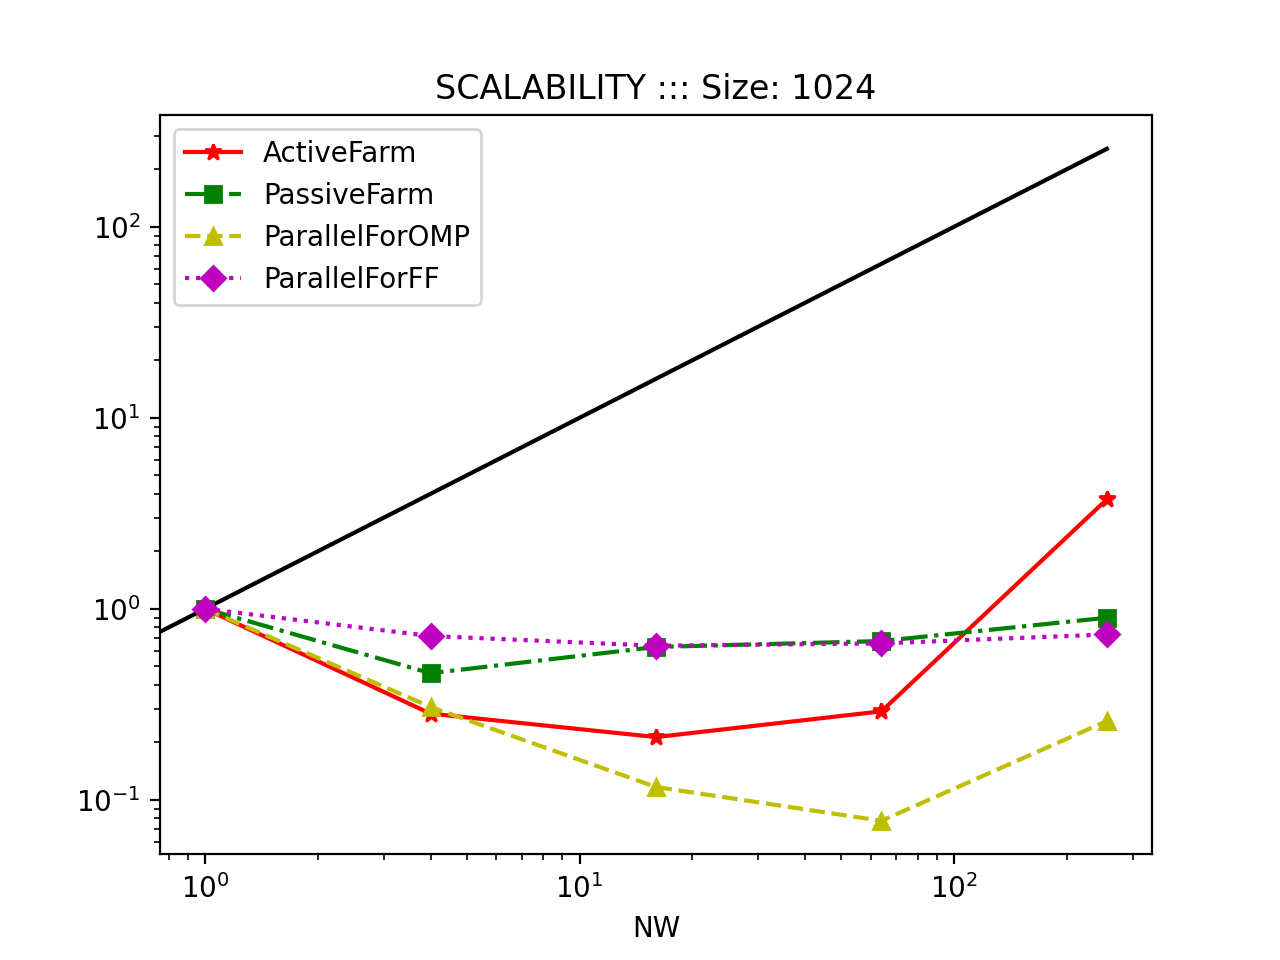
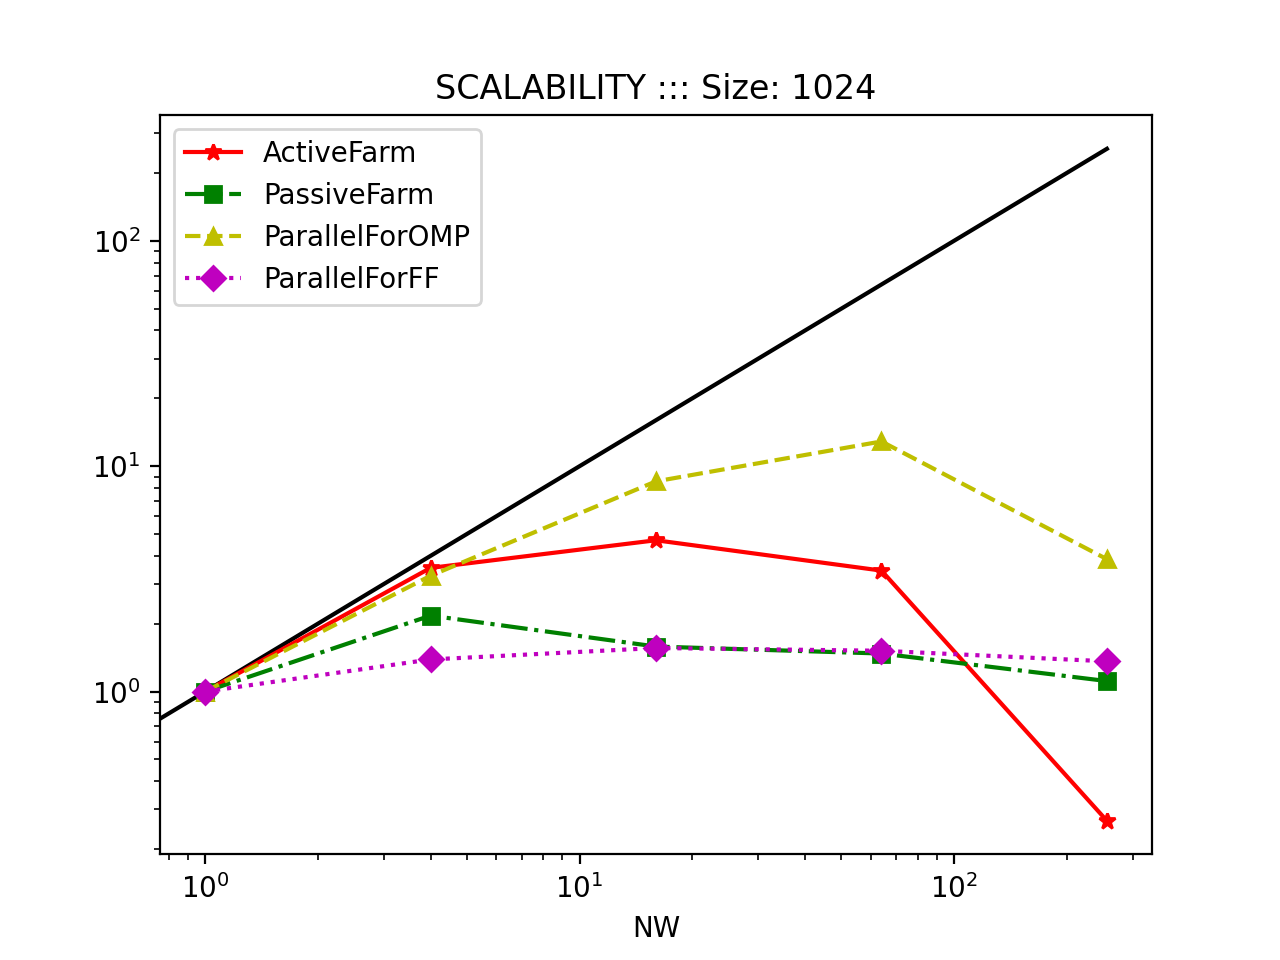
Bugfix data analysis

diff --git a/Assignment/FFPrimes/results/data.py b/Assignment/FFPrimes/results/data.py
@@ -2,6 +2,7 @@ import pandas as pd
 import matplotlib.pyplot as plt
 
 df_seq = pd.read_csv("seq.csv")
+tseq = df_seq.groupby(['nw']).mean().reset_index()['time'].iloc[0]
 
 df_ofarm = pd.read_csv("ofarm.csv")
 df_ofarm = df_ofarm.groupby(['nw']).mean().reset_index()
@@ -10,13 +11,41 @@ df_set = pd.read_csv("set.csv")
 df_set = df_set.groupby(['nw']).mean().reset_index()
 
 df_pfor = pd.read_csv("pfor.csv")
-df_pfor = df_pfor.groupby(['nw','chunk']).mean().reset_index()
+
+
+df_pfor = df_pfor.groupby(['nw', 'chunk']).mean().reset_index()
+df_pfor1 = df_pfor[(df_pfor.chunk == -10)]
+df_pfor2 = df_pfor[(df_pfor.chunk == 0)]
+df_pfor3 = df_pfor[(df_pfor.chunk == 10)]
+
+fig = plt.figure()
+# a, = plt.plot(df_seq['time'], [1,1,1,1,1], 'o-k', label='Seq')
+b, = plt.plot(df_ofarm['nw'], df_ofarm['time'], '-*r', label='OFarm')
+c, = plt.plot(df_set['nw'], df_set['time'], 's-.g', label='Farm+Set')
+d, = plt.plot(df_pfor1['nw'], df_pfor1['time'],'D:c',label='ParallelFor(-10)')
+e, = plt.plot(df_pfor2['nw'], df_pfor2['time'],'^:m',label='ParallelFor(0)')
+f, = plt.plot(df_pfor3['nw'], df_pfor3['time'],'o:b',label='ParallelFor(10)')
+plt.legend(handles=[b, c, d, e, f])
+plt.yscale('log')
+plt.xscale('log')
+plt.ylabel('Time')
+plt.xlabel('NW')
+plt.title("Time")
+plt.show()
 
 
 fig = plt.figure()
-a, = plt.plot(df_seq['time'], 1, 'o-k', label='Seq')
-b, = plt.plot(df_ofarm['time'], df_ofarm['nw'], '-*r', label='OFarm')
-c, = plt.plot(df_set['time'], df_set['nw'], 's-.g', label='Farm+Set')
-d, = plt.plot(df_pfor['time'], df_pfor['nw'], '^--y', label='ParallelFor')
-plt.legend(handles=[a,b,c,d,e])
+a, = plt.plot([0, 256], [0, 256], 'o-k', label='Seq')
+b, = plt.plot(df_ofarm['nw'], df_ofarm['time'].div(tseq), '-*r', label='OFarm')
+c, = plt.plot(df_set['nw'], df_set['time'].div(tseq), 's-.g', label='Farm+Set')
+d, = plt.plot(df_pfor1['nw'], df_pfor1['time'].div(tseq),'D:c',label='ParallelFor(-10)')
+e, = plt.plot(df_pfor2['nw'], df_pfor2['time'].div(tseq),'^:m',label='ParallelFor(0)')
+f, = plt.plot(df_pfor3['nw'], df_pfor3['time'].div(tseq),'o:b',label='ParallelFor(10)')
+plt.legend(handles=[b, c, d, e, f])
+plt.yscale('log')
+plt.xscale('log')
+plt.ylabel('SpeedUp')
+plt.xlabel('NW')
+plt.title("SpeedUp")
+plt.show()
 plt.show()

diff --git a/Assignment/GameOfLife/results/data.py b/Assignment/GameOfLife/results/data.py
@@ -50,17 +50,17 @@ for col in [256, 1024, 4096, 16384]:
 
 
     plt.plot([0, 256], [0, 256],'k')
-    a, = plt.plot(tmp1['nw'], tmp1['time'].div(tseq), '-*r', label='ActiveFarm')
-    b, = plt.plot(tmp2['nw'], tmp2['time'].div(tseq), 's-.g', label='PassiveFarm')
-    c, = plt.plot(tmp3['nw'], tmp3['time'].div(tseq), '^--y', label='ParallelForOMP')
-    d, = plt.plot(tmp4['nw'], tmp4['time'].div(tseq), ':Dm', label='ParallelForFF')
+    a, = plt.plot(tmp1['nw'], tseq / tmp1['time'], '-*r', label='ActiveFarm')
+    b, = plt.plot(tmp2['nw'], tseq / tmp2['time'], 's-.g', label='PassiveFarm')
+    c, = plt.plot(tmp3['nw'], tseq / tmp3['time'], '^--y', label='ParallelForOMP')
+    d, = plt.plot(tmp4['nw'], tseq / tmp4['time'], ':Dm', label='ParallelForFF')
 
     plt.yscale('log')
     plt.xscale('log')
     plt.ylabel('SpeedUp')
     plt.xlabel('NW')
     plt.title("SPEEDUP ::: Size: " + str(col))
-    plt.legend(handles=[a,b,c,e])
+    plt.legend(handles=[a,b,c,d])
     plt.show()
     fig.savefig('speedup' + str(col) + '.png')
 
@@ -78,10 +78,10 @@ for col in [256, 1024, 4096, 16384]:
     tmp4 = par4[(par4.rowcol == col)]
 
     plt.plot([0, 256], [0, 256],'k')
-    a, = plt.plot(tmp1['nw'], tmp1['time'].div(tt1), '-*r', label='ActiveFarm')
-    b, = plt.plot(tmp2['nw'], tmp2['time'].div(tt2), 's-.g', label='PassiveFarm')
-    c, = plt.plot(tmp3['nw'], tmp3['time'].div(tt3), '^--y', label='ParallelForOMP')
-    d, = plt.plot(tmp4['nw'], tmp4['time'].div(tt4), ':Dm', label='ParallelForFF')
+    a, = plt.plot(tmp1['nw'], tt1 / tmp1['time'], '-*r', label='ActiveFarm')
+    b, = plt.plot(tmp2['nw'], tt2 / tmp2['time'], 's-.g', label='PassiveFarm')
+    c, = plt.plot(tmp3['nw'], tt3 / tmp3['time'], '^--y', label='ParallelForOMP')
+    d, = plt.plot(tmp4['nw'], tt4 / tmp4['time'], ':Dm', label='ParallelForFF')
 
     plt.yscale('log')
     plt.xscale('log')
